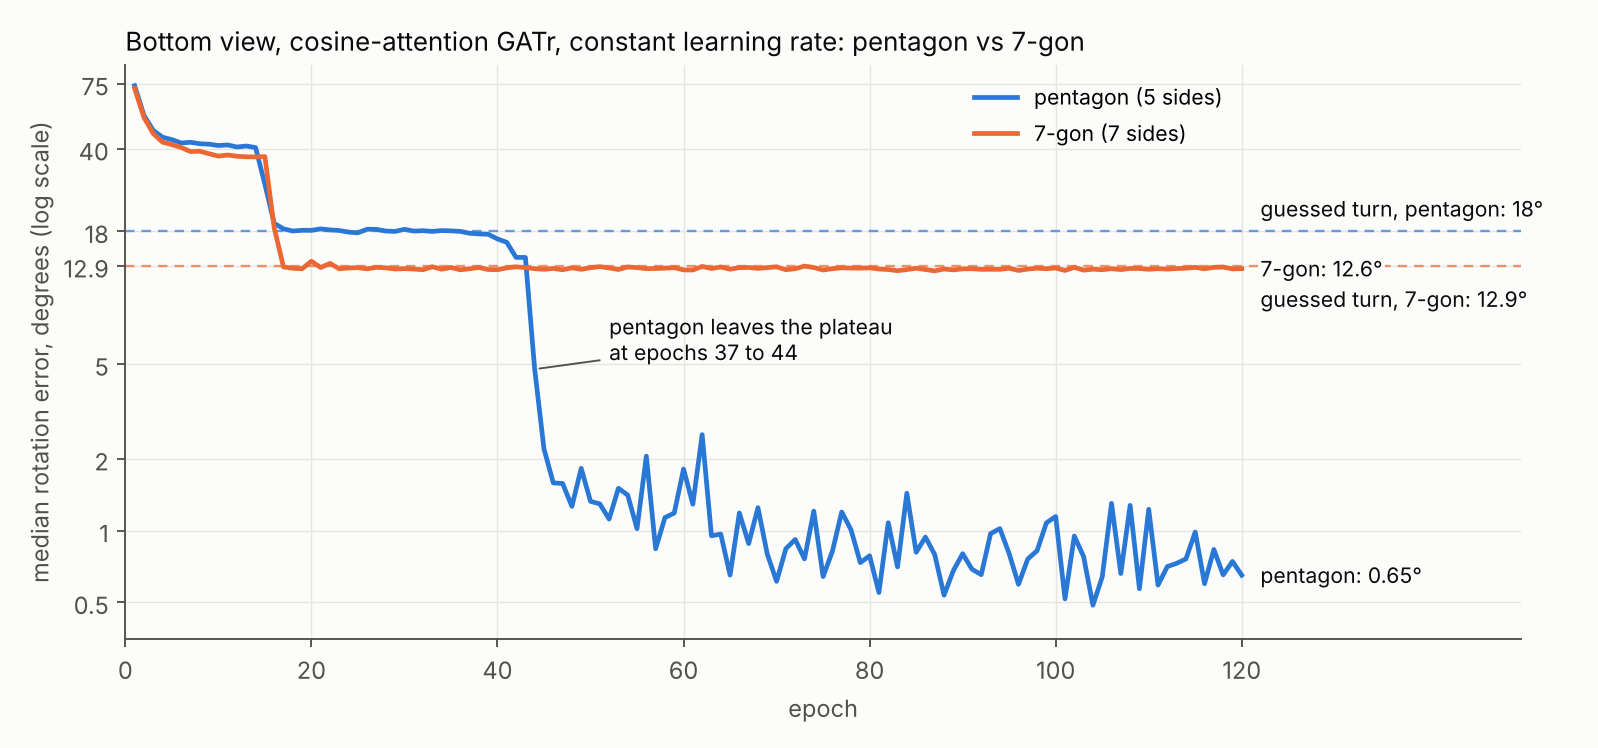
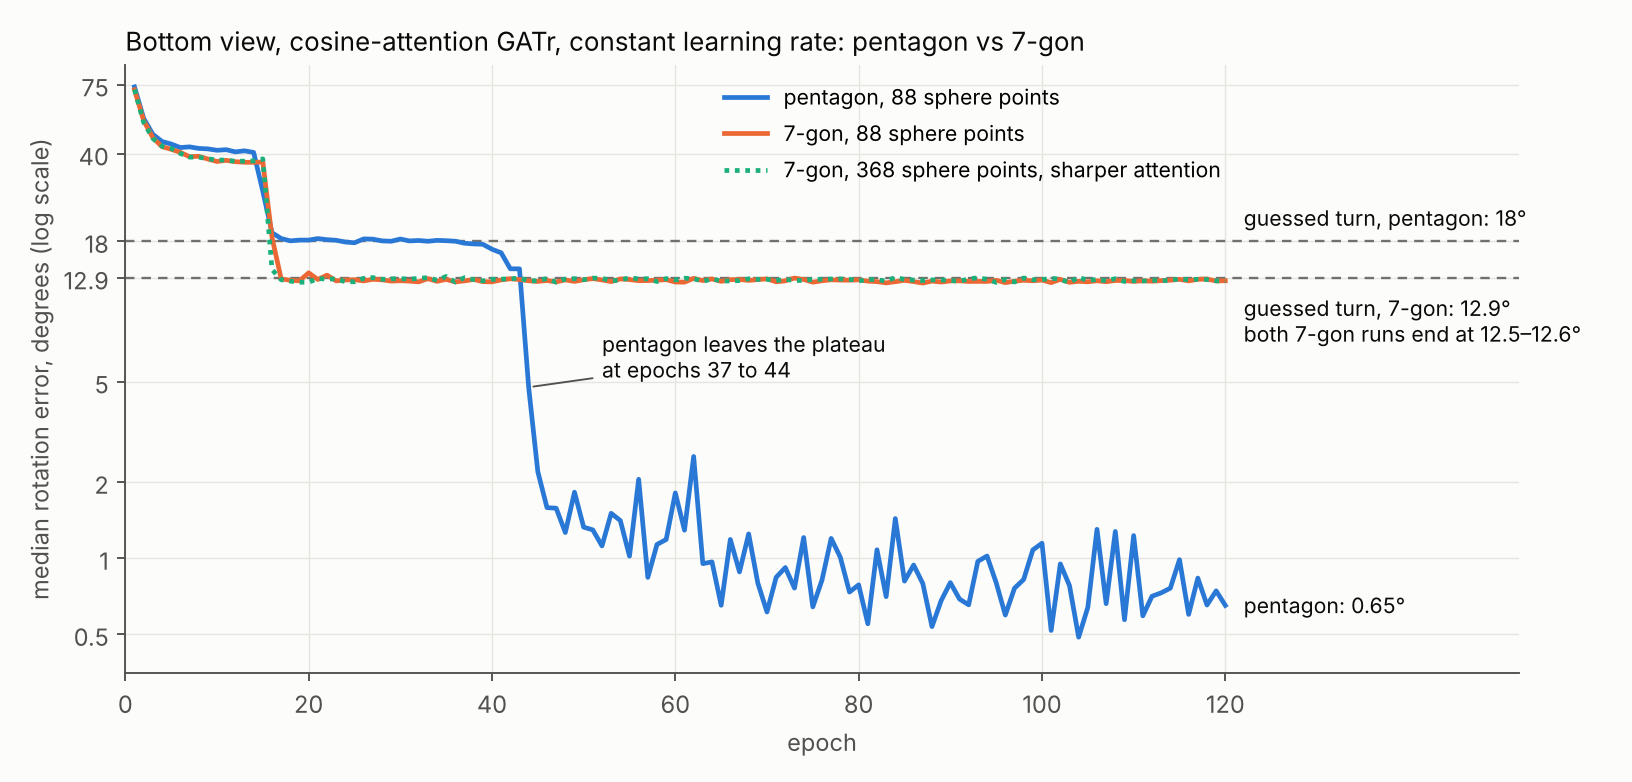
7-gon bottom view on a denser sphere grid with sharper attention: still at the guessed-turn level
368 points (up to 32 per ring) and start temperature 60 give the same curve as
88 points and 30: 12.4-13.1 deg from epoch 17 to 120. Third curve added to the
pentagon-vs-7-gon figure.

Claude-Session: https://claude.ai/code/session_01CjS2ebrnSKXBxxPg7a3mE2

Changed region(s): [[0.0, 0.0307, 0.9812, 0.984], [0.0, 0.5227, 0.0307, 0.7687], [0.0613, 0.8917, 0.092, 0.9225]]

diff --git a/pose3d/reports/cosdir_bottom_view.md b/pose3d/reports/cosdir_bottom_view.md
@@ -161,8 +161,27 @@ by about 0.1 degrees over the run. So within 120 epochs the schedule does not ex
 that the grid argument singled out: 88 hemisphere points give at most 16 per ring around the optical axis, the
 bare minimum for a 7-fold pattern, and the attention windows pass degree 7 at 6 to 32 % of its amplitude.
 
-A run on a denser grid is prepared, not launched: `notebooks/bottom7-gatr-cosdir-nside8-runner.ipynb`
-(`--dircloud_nside 8`: 368 points, up to 32 per ring; cosine attention started at inverse temperature 60).
+## 7-gon on a denser sphere grid with sharper attention: no change
+
+Kaggle kernel `cheesewaffler/bottom7-gatr-cosdir-nside8-s60-constlr-e120-t4x2` (2026-11-17): the constant-rate
+7-gon run with `--dircloud_nside 8` (368 hemisphere points, up to 32 per ring around the optical axis, instead of
+88 with at most 16) and the cosine attention started at inverse temperature 60 instead of 30
+(`notebooks/bottom7-gatr-cosdir-nside8-runner.ipynb`; 180 s per epoch on 2xT4).
+
+| | 88 points, temperature 30 | 368 points, temperature 60 |
+|---|---|---|
+| first plateau ends | epoch 16 | epoch 16 |
+| median error, epochs 17 to 120 | 12.3 to 13.5 | 12.4 to 13.1 |
+| mean over epochs 17-40 / 41-80 / 81-120 | 12.66 / 12.63 / 12.53 | 12.70 / 12.70 / 12.66 |
+
+The two curves coincide (figure above). So neither the number of points per ring nor the width of the attention
+windows is what keeps the 7-gon at the guessed-turn level, which is what `reports/cosdir_mechanism.md` and the
+first version of this report predicted. That prediction is wrong for the bottom view.
+
+What remains untested: the 7x7 ResNet feature map, which the lift only interpolates onto the sphere (a denser
+sphere grid adds no information); and whether a model that reads the sphere through a few windows per block can
+build a 7-fold dependence on its own turn at all within 4 blocks. Two changes were made at once here, but since
+nothing moved there is nothing to attribute.
 
 ## Image2Sphere with L = 6 on the 7-gon: the constant rate changes nothing
 
@@ -191,9 +210,10 @@ put one broad peak on one of the seven equivalent poses.
   second plateau, at the guessed-turn level, takes hundreds to thousands of further steps at the full rate (about
   700 for the square with the encoder frozen, about 1,900 for the pentagon end to end), and the 40-epoch cosine
   schedule has lowered the rate to 60 % when that plateau starts and to 19 % by epoch 30.
-* **7-gon**: not explained by the schedule within 120 epochs. With a constant rate it stays at the guessed-turn
-  level for 104 epochs (the pentagon needed 27). The remaining suspects are the 16 points per ring of the sphere grid
-  and the width of the attention windows; the denser-grid run above tests them.
+* **7-gon**: not learned. A constant rate for 120 epochs leaves it at the guessed-turn level (104 epochs on the
+  plateau; the pentagon needed 27), and so does the same run on a 4 times denser sphere grid with sharper
+  attention. The schedule, the points per ring and the window width are therefore ruled out as the single cause;
+  the 7x7 feature map and the depth of the field are the remaining suspects.
 * The difference between the square and the others in how the turn is laid out on the sphere (table above) is
   real for the 40-epoch checkpoints, but it is not an obstacle to learning: it probably describes a model that has
   not started the second step, not one that cannot take it.
